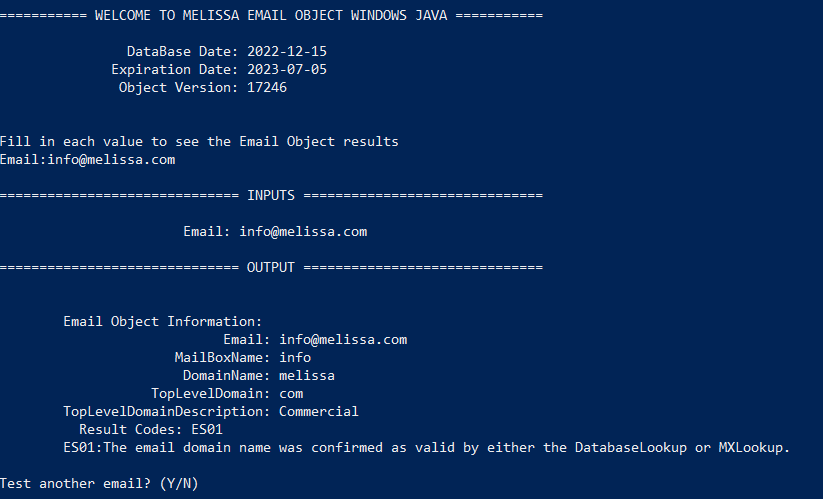
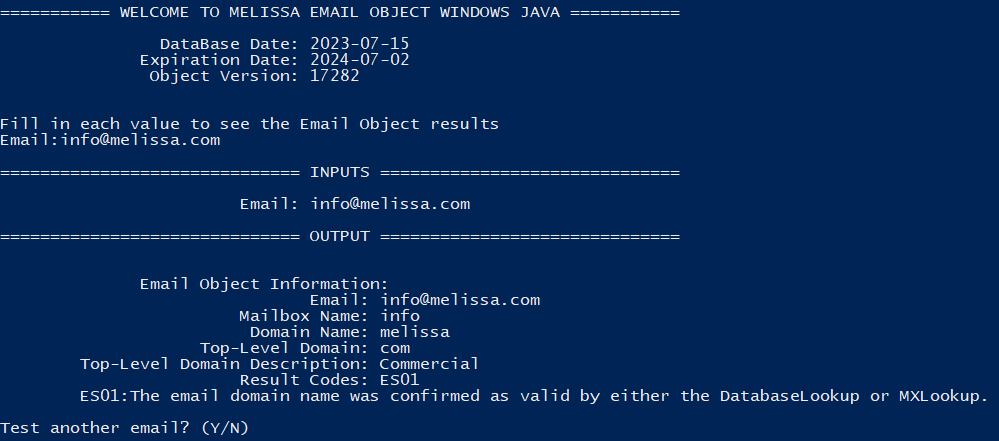
Tested successfully using Melissa data files for 2023.07

diff --git a/MelissaEmailObjectWindowsJava/MelissaEmailObjectWindowsJava.java b/MelissaEmailObjectWindowsJava/MelissaEmailObjectWindowsJava.java
@@ -59,22 +59,21 @@ public class MelissaEmailObjectWindowsJava {
 
       // Print user input
       System.out.println("\n============================== INPUTS ==============================\n");
-      System.out.println("\t               Email: " + dataContainer.Email);
+      System.out.println("\t                Email: " + dataContainer.Email);
 
       // Execute Email Object
       emailObject.ExecuteObjectAndResultCodes(dataContainer);
 
       // Print output
       System.out.println("\n============================== OUTPUT ==============================\n");
-      System.out.println("\n\tEmail Object Information:");
+      System.out.println("\n\t      Email Object Information:");
 
-      System.out.println("\t                    Email: " + dataContainer.Email);
-      System.out.println("\t              MailBoxName: " + emailObject.mdEmailObj.GetMailBoxName());
-      System.out.println("\t               DomainName: " + emailObject.mdEmailObj.GetDomainName());
-      System.out.println("\t           TopLevelDomain: " + emailObject.mdEmailObj.GetTopLevelDomain());
-      System.out.println("\tTopLevelDomainDescription: " + emailObject.mdEmailObj.GetTopLevelDomainDescription());
-
-      System.out.println("\t  Result Codes: " + dataContainer.ResultCodes);
+      System.out.println("\t                       Email: " + dataContainer.Email);
+      System.out.println("\t                Mailbox Name: " + emailObject.mdEmailObj.GetMailBoxName());
+      System.out.println("\t                 Domain Name: " + emailObject.mdEmailObj.GetDomainName());
+      System.out.println("\t            Top-Level Domain: " + emailObject.mdEmailObj.GetTopLevelDomain());
+      System.out.println("\tTop-Level Domain Description: " + emailObject.mdEmailObj.GetTopLevelDomainDescription());
+      System.out.println("\t                Result Codes: " + dataContainer.ResultCodes);
 
       String[] rs = dataContainer.ResultCodes.split(",");
       for (String r : rs) {

diff --git a/README.md b/README.md
@@ -1,7 +1,6 @@
 # Melissa Email Object Windows Java
 
 ## Purpose
-
 This code showcases the Melissa Email Object using Java.
 
 Please feel free to copy or embed this code to your own project. Happy coding!
@@ -10,26 +9,19 @@ For the latest Melissa Email Object release notes, please visit: https://release
 
 The console will ask the user for:
 
-- Email Address
+- Email 
 
 And return 
 
-- Mail Box Name
+- Mailbox Name
 - Domain Name
 - Top-Level Domain Name
 - Top-Level Domain Description
-- ResultCodes
-
-
-----------------------------------------
+- Result Codes
 
 ## Tested Environments
-
-- Windows 64-bit Java 19
-- Powershell 5.1
-- Melissa data files for 2023-06
-
-----------------------------------------
+- Windows 10 64-bit Java 19, Powershell 5.1
+- Melissa data files for 2023-07
 
 ## Required Files and Programs
 
@@ -42,17 +34,14 @@ This is the c++ code of the Melissa Object. This file will be downloaded by Meli
 This file needs to be added as a Project Dependency.  This wrapper will need to be in the same directory as the program using it.
 
 #### Data Files
-
 - mdEmail.cfg
 - mdEmail.db3
- 
-----------------------------------------
+
 ## Getting Started
 These instructions will get you a copy of the project up and running on your local machine for development and testing purposes.
 This project is compatible with Java 19
 
 #### Install Java
-
 Before starting, make sure that Java has been correctly installed on your machine and your environment paths are configured. 
 
 You can download Java here: 
@@ -65,9 +54,7 @@ You can check that your environment is set up correctly by opening a command pro
 
 If you see the version number then you have installed Java and set up your environment paths correctly!
 
-
 #### Set up Powershell settings
-
 If running Powershell for the first time, you will need to run this command in the Powershell console: `Set-ExecutionPolicy RemoteSigned`.
 The console will then prompt you with the following warning shown in the image below. 
  - Enter `'A'`. 
@@ -79,7 +66,7 @@ The console will then prompt you with the following warning shown in the image b
 
 #### Download this project
 ```
-$ git clone https://github.com/MelissaData/EmailObject-Java.git
+$ git clone https://github.com/MelissaData/EmailObject-Java
 $ cd EmailObject-Java
 ```
 
@@ -136,13 +123,10 @@ This is the expected output from a successful setup for interactive mode:
 
 ![alt text](/screenshots/output.png)
 
-    
 ## Troubleshooting
-
 Troubleshooting for errors found while running your program.
 
 ### Errors:
-
 | Error      | Description |
 | ----------- | ----------- |
 | ErrorRequiredFileNotFound      | Program is missing a required file. Please check your Data folder and refer to the list of required files above. If you are unable to obtain all required files through the Melissa Updater, please contact technical support below. |
@@ -150,9 +134,7 @@ Troubleshooting for errors found while running your program.
 | ErrorFoundOldFile   | File(s) are out of date. Please make sure you are downloading and using the latest release version. (If using the Melissa Updater, check powershell script for '$RELEASE_VERSION = {version}'  and change the release version if you are using an out of date release).    |
 | ErrorLicenseExpired   | Expired license string. Please contact technical support below. |
 
-
 ## Contact Us
-
 For free technical support, please call us at 800-MELISSA ext. 4
 (800-635-4772 ext. 4) or email us at tech@melissa.com.
 
